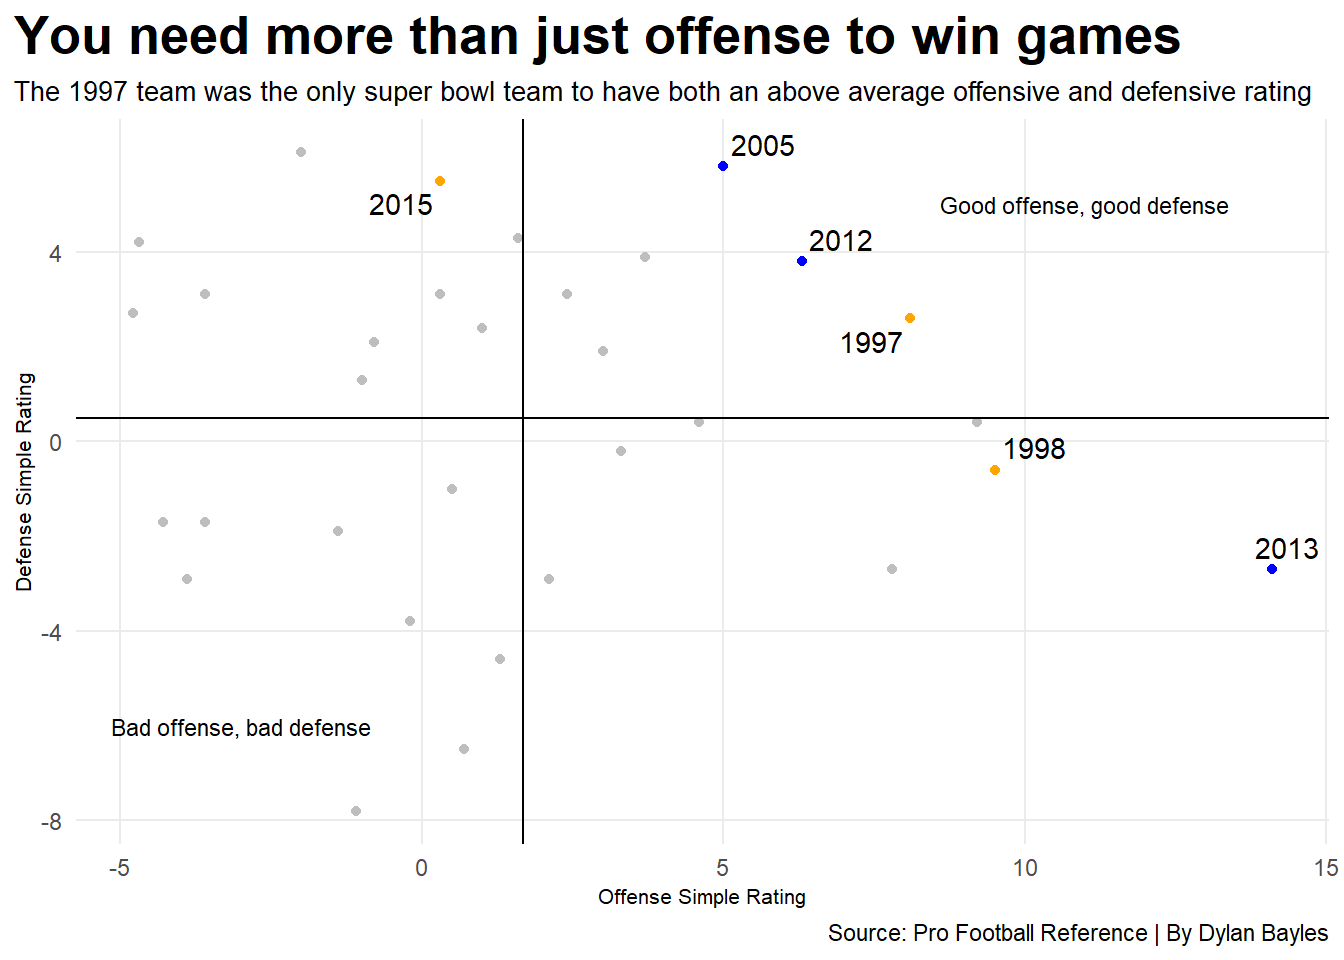
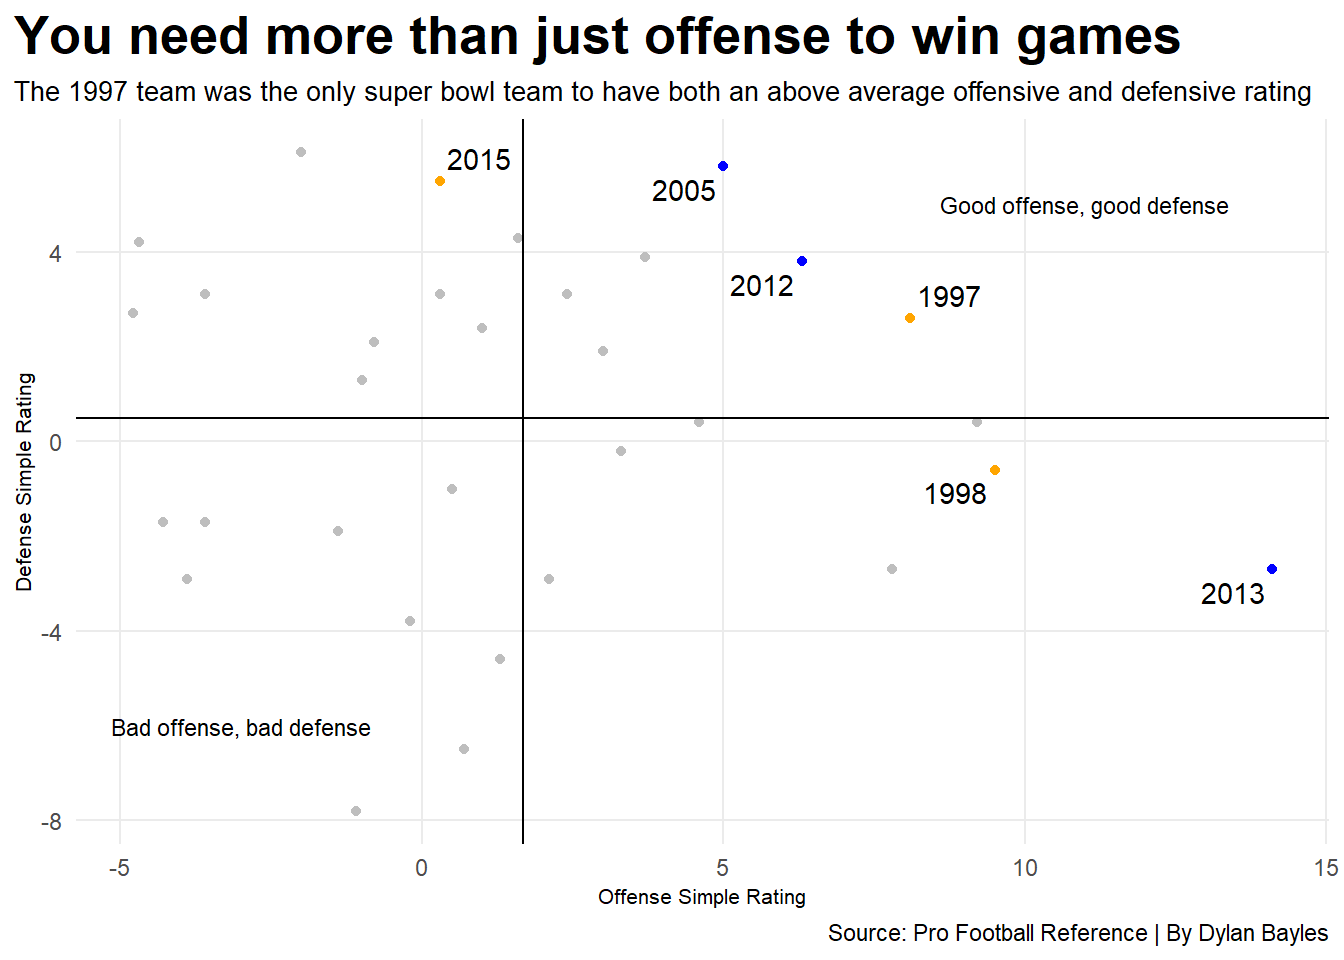
Adding text

diff --git a/2022/04/01/super-bowls-are-not-the-ultimate-metric-for-denver/index.html b/2022/04/01/super-bowls-are-not-the-ultimate-metric-for-denver/index.html
@@ -57,7 +57,7 @@
 
   <article class="article">
     
-    <span class="article-duration">7 min read</span>
+    <span class="article-duration">8 min read</span>
     
 
     <h1 class="article-title">Super Bowls Are Not the Ultimate Metric For Denver</h1>
@@ -70,17 +70,16 @@
       
 
 
-<p>The Denver Broncos have three Super Bowls, but one of the most prolific offenses in the 2013 team came up short in the playoffs. Which of these teams is the best Broncos team since the 1990 season?</p>
-<p>The Denver Broncos have been consistently bad over the last six seasons, since hall of game quarterback and the undisputed GOAT Peyton Manning retired. Now armed with another hall of fame quarterback that has already established themselves as an elite player, it’s reminiscent of the trade for the equally undisputed GOAT John Elway. Will this acquisition be a repetition of history, or will it be another in a long line of quarterback busts? Only time will tell.</p>
-<p>However, we should look to the past to determine which Broncos team was actually the best. They won the Super Bowl in 1997, 1998, and 2015, but the 2013 team had a dominant offense that shattered single-season records, however they fell short to the Seattle Seahawks in Super Bowl XLVIII. Or is there potentially another dark horse team that never reached the same level of success as these teams? Let’s find out. For the sake of simplicity, we’re going to focus only on Denver Broncos teams from last season back to 1990.</p>
+<p>The Denver Broncos have been consistently bad over the last six seasons, ever since hall of game quarterback and the undisputed GOAT Peyton Manning retired. However, they are a highly decorated team, having won three Super Bowls (tied for 7th most) and having appeared in eight of the big games (tied for 3rd most). Many argue as to whether Manning or John Elway was the best Broncos quarterback of all time, but I’m more interested in which team was the best.</p>
+<p>They won the Super Bowl in 1997, 1998, and 2015, but the 2013 team had a dominant offense that shattered single-season records, however they fell short to the Seattle Seahawks in Super Bowl XLVIII. Or is there potentially another dark horse team that never reached the same level of success as these teams? Let’s find out. For the sake of simplicity, we’re going to focus only on Denver Broncos teams from last season dating back to 1990.</p>
 <p>First we need to look at the offense for each of these teams in the context of the times. How did they compare to the other offenses in the league during the year they played?</p>
 <p>To do this, I created a z-score for several statistics within each Denver team. I compared the total yards, total points, turnovers lost, yards per play, and total touchdowns. I then added all of the z-scores up to get a total offensive z-score, showing which teams were better than other teams in their respective years at gaining yards, scoring touchdowns, and not giving up the football.</p>
-<div id="qynyakkkib" style="overflow-x:auto;overflow-y:auto;width:auto;height:auto;">
+<div id="pvrqzkoaem" style="overflow-x:auto;overflow-y:auto;width:auto;height:auto;">
 <style>html {
   font-family: -apple-system, BlinkMacSystemFont, 'Segoe UI', Roboto, Oxygen, Ubuntu, Cantarell, 'Helvetica Neue', 'Fira Sans', 'Droid Sans', Arial, sans-serif;
 }
 
-#qynyakkkib .gt_table {
+#pvrqzkoaem .gt_table {
   display: table;
   border-collapse: collapse;
   margin-left: auto;
@@ -105,7 +104,7 @@
   border-left-color: #D3D3D3;
 }
 
-#qynyakkkib .gt_heading {
+#pvrqzkoaem .gt_heading {
   background-color: #FFFFFF;
   text-align: center;
   border-bottom-color: #FFFFFF;
@@ -117,7 +116,7 @@
   border-right-color: #D3D3D3;
 }
 
-#qynyakkkib .gt_title {
+#pvrqzkoaem .gt_title {
   color: #333333;
   font-size: 125%;
   font-weight: initial;
@@ -129,7 +128,7 @@
   border-bottom-width: 0;
 }
 
-#qynyakkkib .gt_subtitle {
+#pvrqzkoaem .gt_subtitle {
   color: #333333;
   font-size: 85%;
   font-weight: initial;
@@ -141,13 +140,13 @@
   border-top-width: 0;
 }
 
-#qynyakkkib .gt_bottom_border {
+#pvrqzkoaem .gt_bottom_border {
   border-bottom-style: none;
   border-bottom-width: 2px;
   border-bottom-color: #D3D3D3;
 }
 
-#qynyakkkib .gt_col_headings {
+#pvrqzkoaem .gt_col_headings {
   border-top-style: none;
   border-top-width: 2px;
   border-top-color: #D3D3D3;
@@ -162,7 +161,7 @@
   border-right-color: #D3D3D3;
 }
 
-#qynyakkkib .gt_col_heading {
+#pvrqzkoaem .gt_col_heading {
   color: #333333;
   background-color: #FFFFFF;
   font-size: 100%;
@@ -182,7 +181,7 @@
   overflow-x: hidden;
 }
 
-#qynyakkkib .gt_column_spanner_outer {
+#pvrqzkoaem .gt_column_spanner_outer {
   color: #333333;
   background-color: #FFFFFF;
   font-size: 100%;
@@ -194,15 +193,15 @@
   padding-right: 4px;
 }
 
-#qynyakkkib .gt_column_spanner_outer:first-child {
+#pvrqzkoaem .gt_column_spanner_outer:first-child {
   padding-left: 0;
 }
 
-#qynyakkkib .gt_column_spanner_outer:last-child {
+#pvrqzkoaem .gt_column_spanner_outer:last-child {
   padding-right: 0;
 }
 
-#qynyakkkib .gt_column_spanner {
+#pvrqzkoaem .gt_column_spanner {
   border-bottom-style: none;
   border-bottom-width: 2px;
   border-bottom-color: #D3D3D3;
@@ -214,7 +213,7 @@
   width: 100%;
 }
 
-#qynyakkkib .gt_group_heading {
+#pvrqzkoaem .gt_group_heading {
   padding-top: 8px;
   padding-bottom: 8px;
   padding-left: 5px;
@@ -239,7 +238,7 @@
   vertical-align: middle;
 }
 
-#qynyakkkib .gt_empty_group_heading {
+#pvrqzkoaem .gt_empty_group_heading {
   padding: 0.5px;
   color: #333333;
   background-color: #FFFFFF;
@@ -254,15 +253,15 @@
   vertical-align: middle;
 }
 
-#qynyakkkib .gt_from_md > :first-child {
+#pvrqzkoaem .gt_from_md > :first-child {
   margin-top: 0;
 }
 
-#qynyakkkib .gt_from_md > :last-child {
+#pvrqzkoaem .gt_from_md > :last-child {
   margin-bottom: 0;
 }
 
-#qynyakkkib .gt_row {
+#pvrqzkoaem .gt_row {
   padding-top: 8px;
   padding-bottom: 8px;
   padding-left: 5px;
@@ -281,7 +280,7 @@
   overflow-x: hidden;
 }
 
-#qynyakkkib .gt_stub {
+#pvrqzkoaem .gt_stub {
   color: #333333;
   background-color: #FFFFFF;
   font-size: 100%;
@@ -294,7 +293,7 @@
   padding-right: 5px;
 }
 
-#qynyakkkib .gt_stub_row_group {
+#pvrqzkoaem .gt_stub_row_group {
   color: #333333;
   background-color: #FFFFFF;
   font-size: 100%;
@@ -308,11 +307,11 @@
   vertical-align: top;
 }
 
-#qynyakkkib .gt_row_group_first td {
+#pvrqzkoaem .gt_row_group_first td {
   border-top-width: 2px;
 }
 
-#qynyakkkib .gt_summary_row {
+#pvrqzkoaem .gt_summary_row {
   color: #333333;
   background-color: #FFFFFF;
   text-transform: inherit;
@@ -322,16 +321,16 @@
   padding-right: 5px;
 }
 
-#qynyakkkib .gt_first_summary_row {
+#pvrqzkoaem .gt_first_summary_row {
   border-top-style: none;
   border-top-color: #D3D3D3;
 }
 
-#qynyakkkib .gt_first_summary_row.thick {
+#pvrqzkoaem .gt_first_summary_row.thick {
   border-top-width: 2px;
 }
 
-#qynyakkkib .gt_last_summary_row {
+#pvrqzkoaem .gt_last_summary_row {
   padding-top: 8px;
   padding-bottom: 8px;
   padding-left: 5px;
@@ -341,7 +340,7 @@
   border-bottom-color: #D3D3D3;
 }
 
-#qynyakkkib .gt_grand_summary_row {
+#pvrqzkoaem .gt_grand_summary_row {
   color: #333333;
   background-color: #FFFFFF;
   text-transform: inherit;
@@ -351,7 +350,7 @@
   padding-right: 5px;
 }
 
-#qynyakkkib .gt_first_grand_summary_row {
+#pvrqzkoaem .gt_first_grand_summary_row {
   padding-top: 8px;
   padding-bottom: 8px;
   padding-left: 5px;
@@ -361,11 +360,11 @@
   border-top-color: #D3D3D3;
 }
 
-#qynyakkkib .gt_striped {
+#pvrqzkoaem .gt_striped {
   background-color: rgba(128, 128, 128, 0.05);
 }
 
-#qynyakkkib .gt_table_body {
+#pvrqzkoaem .gt_table_body {
   border-top-style: none;
   border-top-width: 2px;
   border-top-color: #D3D3D3;
@@ -374,7 +373,7 @@
   border-bottom-color: #D3D3D3;
 }
 
-#qynyakkkib .gt_footnotes {
+#pvrqzkoaem .gt_footnotes {
   color: #333333;
   background-color: #FFFFFF;
   border-bottom-style: none;
@@ -388,7 +387,7 @@
   border-right-color: #D3D3D3;
 }
 
-#qynyakkkib .gt_footnote {
+#pvrqzkoaem .gt_footnote {
   margin: 0px;
   font-size: 90%;
   padding-left: 4px;
@@ -397,7 +396,7 @@
   padding-right: 5px;
 }
 
-#qynyakkkib .gt_sourcenotes {
+#pvrqzkoaem .gt_sourcenotes {
   color: #333333;
   background-color: #FFFFFF;
   border-bottom-style: none;
@@ -411,7 +410,7 @@
   border-right-color: #D3D3D3;
 }
 
-#qynyakkkib .gt_sourcenote {
+#pvrqzkoaem .gt_sourcenote {
   font-size: 90%;
   padding-top: 4px;
   padding-bottom: 4px;
@@ -419,60 +418,60 @@
   padding-right: 5px;
 }
 
-#qynyakkkib .gt_left {
+#pvrqzkoaem .gt_left {
   text-align: left;
 }
 
-#qynyakkkib .gt_center {
+#pvrqzkoaem .gt_center {
   text-align: center;
 }
 
-#qynyakkkib .gt_right {
+#pvrqzkoaem .gt_right {
   text-align: right;
   font-variant-numeric: tabular-nums;
 }
 
-#qynyakkkib .gt_font_normal {
+#pvrqzkoaem .gt_font_normal {
   font-weight: normal;
 }
 
-#qynyakkkib .gt_font_bold {
+#pvrqzkoaem .gt_font_bold {
   font-weight: bold;
 }
 
-#qynyakkkib .gt_font_italic {
+#pvrqzkoaem .gt_font_italic {
   font-style: italic;
 }
 
-#qynyakkkib .gt_super {
+#pvrqzkoaem .gt_super {
   font-size: 65%;
 }
 
-#qynyakkkib .gt_footnote_marks {
+#pvrqzkoaem .gt_footnote_marks {
   font-style: italic;
   font-weight: normal;
   font-size: 75%;
   vertical-align: 0.4em;
 }
 
-#qynyakkkib .gt_asterisk {
+#pvrqzkoaem .gt_asterisk {
   font-size: 100%;
   vertical-align: 0;
 }
 
-#qynyakkkib .gt_slash_mark {
+#pvrqzkoaem .gt_slash_mark {
   font-size: 0.7em;
   line-height: 0.7em;
   vertical-align: 0.15em;
 }
 
-#qynyakkkib .gt_fraction_numerator {
+#pvrqzkoaem .gt_fraction_numerator {
   font-size: 0.6em;
   line-height: 0.6em;
   vertical-align: 0.45em;
 }
 
-#qynyakkkib .gt_fraction_denominator {
+#pvrqzkoaem .gt_fraction_denominator {
   font-size: 0.6em;
   line-height: 0.6em;
   vertical-align: -0.05em;
@@ -539,9 +538,16 @@
 </div>
 <p>The 2013 team had one of the most prolific offenses of all time, averaging 460 yards, 38 points, and four and a half touchdowns per game. It was miles ahead of the even the next closest Broncos team, having a Z score nearly 3 points higher than the 1998 Super Bowl team.</p>
 <p>However, as we know very well, offense is only half of the ball game. Unlike the Big-12 Conference, if you want to win in the NFL you need to have some resemblance of a defense. Many argue that defense is even more important than offense, as it’s easier to outscore an opponent who doesn’t score anything, than to outscore an opponent in a shootout. Just ask Patrick Mahomes about his time at Texas Tech.</p>
-<p>The Simple Rating System takes a team’s average point margin and adjusts it up or down based on a postivie or negative strength of schedule. I took the offensive and defensive simple ratings for all of Denver teams to show both how well the offense and defense for each year performed.</p>
+<p>The Simple Rating System takes a team’s average point margin and adjusts it up or down based on a positive or negative strength of schedule. I took the offensive and defensive simple ratings for all of Denver teams to show both how well both the offense and defense performed.</p>
 <p><img src="/2022/04/01/super-bowls-are-not-the-ultimate-metric-for-denver/index_files/figure-html/unnamed-chunk-6-1.png" width="672" /></p>
-<p><img src="/2022/04/01/super-bowls-are-not-the-ultimate-metric-for-denver/index_files/figure-html/unnamed-chunk-9-1.png" width="672" /></p>
+<p>The only team out of our four in question that made the good offense, good defense section was the 1997 team. The 2015 team had astonishing defense, but the offense was sub par thanks to Manning’s neck being made of steel. The 1998 and 2013 teams had great offense, but the defense was not there to back it up.</p>
+<p>Let’s take one closer look at the defensive stats to make the final call. I looked at the season rushing and passing yards of the opponents for our final four contenders to see how many of each type of yardage the defense was giving up.</p>
+<p><img src="/2022/04/01/super-bowls-are-not-the-ultimate-metric-for-denver/index_files/figure-html/unnamed-chunk-7-1.png" width="672" /></p>
+<p>It’s pretty apparent that without a defense, you’re going to get ran over by 35 points in the Super Bowl, regardless of how amazing your offense is. For that reason, the 2013 team is out of contention.</p>
+<p>With the three Super Bowl teams remaining, the victor is clear. Even though the 2015 team had a slight advantage on the 1997 team in terms of defense, the offensive prowess was simply not there for the 2015 team. The 1998 team had a slightly better offense than the 1997 team based on the z-scores, but weren’t even above average for Denver teams in their defensive simple rating.</p>
+<p>There’s plenty of crowns to be given out for the best offensive and defensive Broncos teams, but at the end of the day it doesn’t get you the best team award. You need to have a solid offense, a solid defense, and the GOAT quarterback to receive that award.</p>
+<p>Hence, the 1997 team is the best Denver Broncos team of all time.</p>
+<p>The code for this post can be found <a href="google.com">here</a>.</p>
 
     </div>
   </article>
